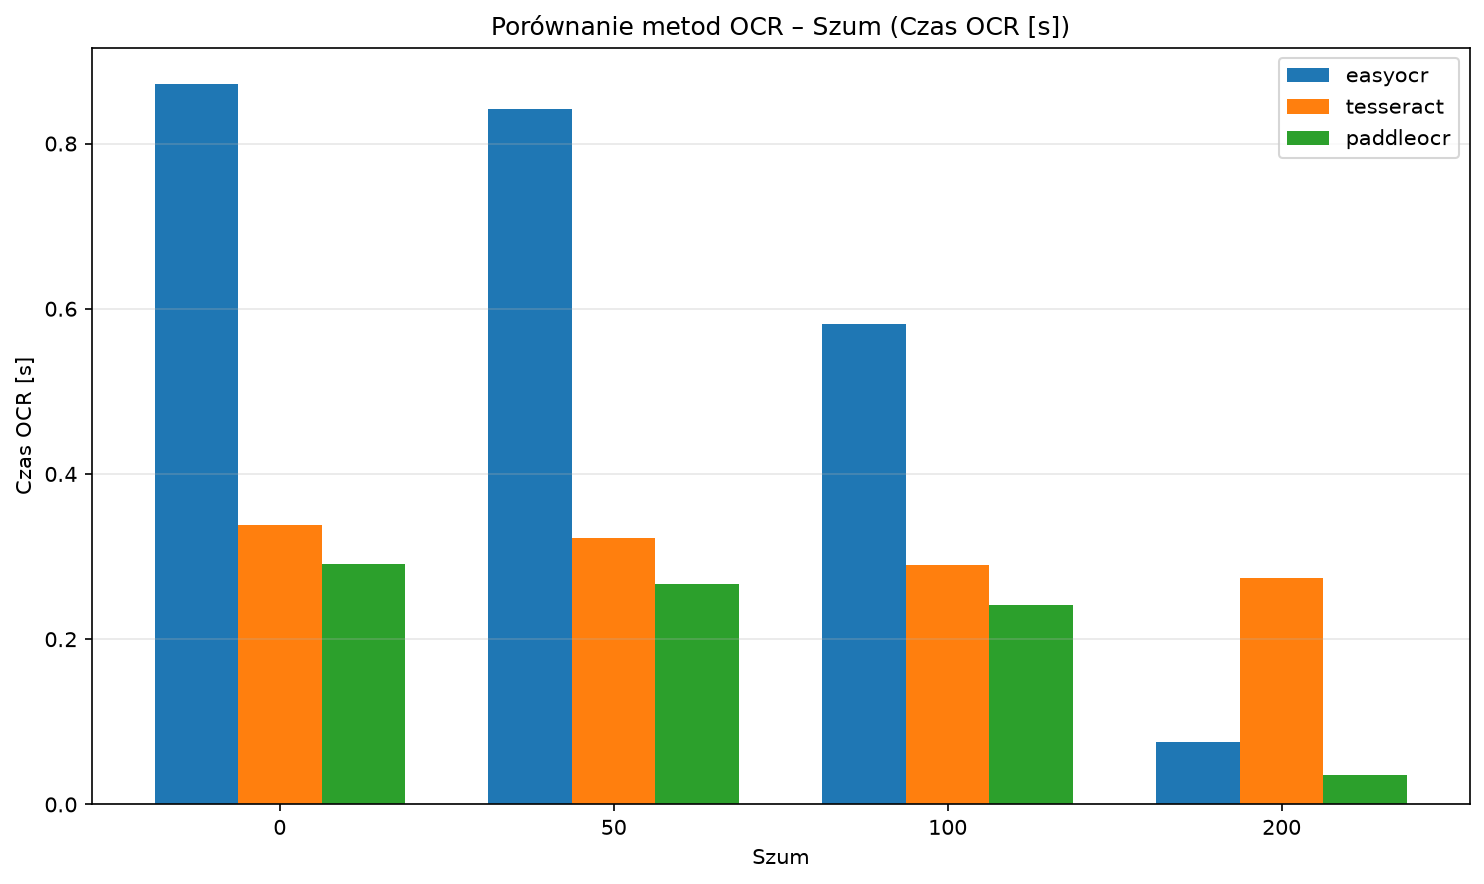
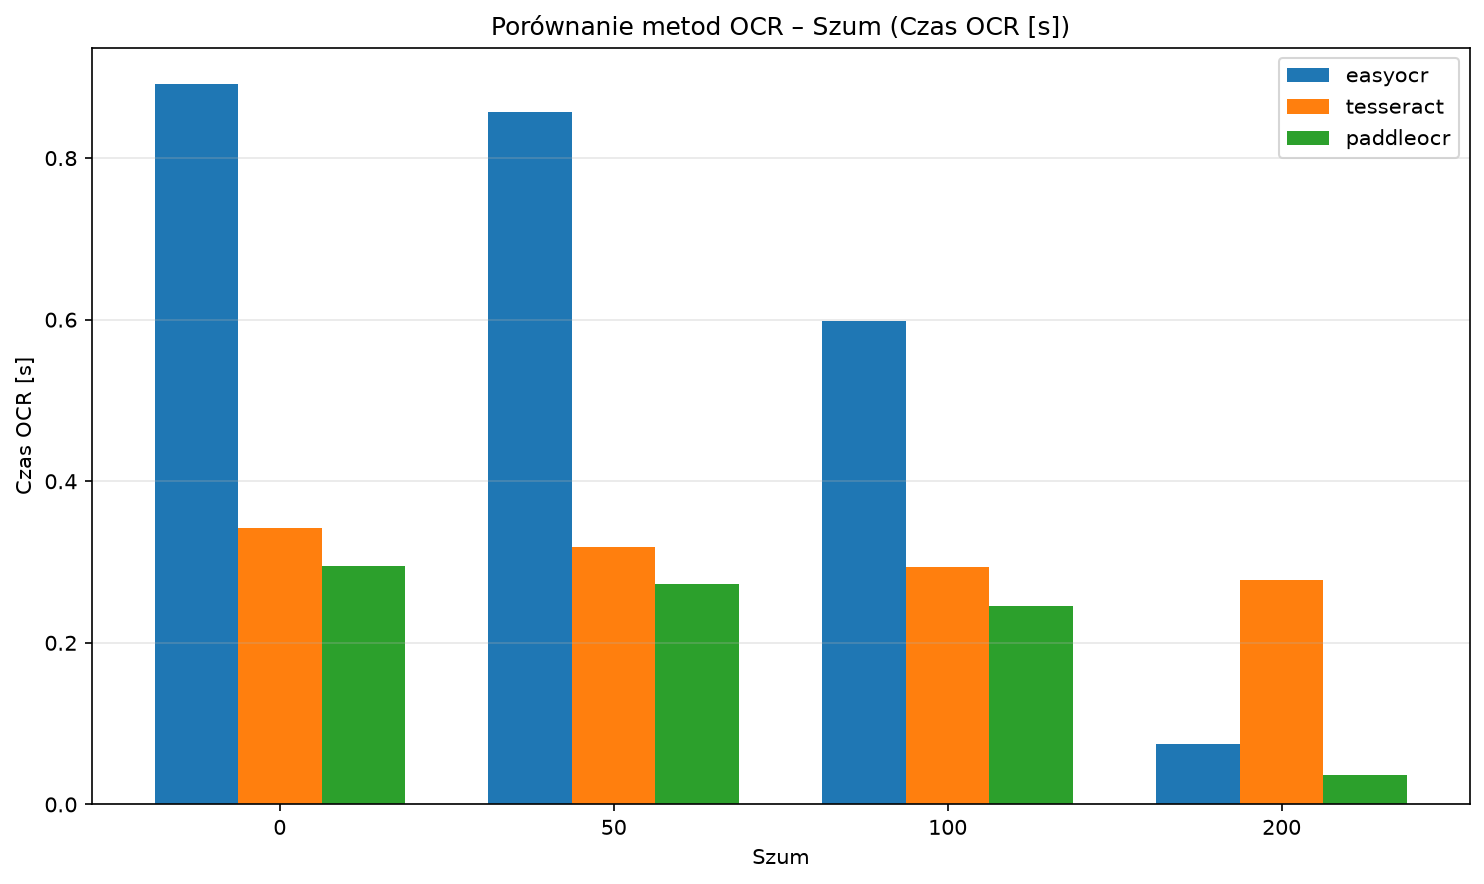
Dodanie folderu z wynikami i wyników

diff --git a/ocr.py b/ocr.py
@@ -34,7 +34,10 @@ def to_bgr_array(img):
 @lru_cache(maxsize=None)
 def get_easyocr_reader(lang: str):
     import easyocr
-    return easyocr.Reader([lang])
+    return easyocr.Reader(
+        [lang],
+        gpu=True
+    )
 
 
 @lru_cache(maxsize=None)
